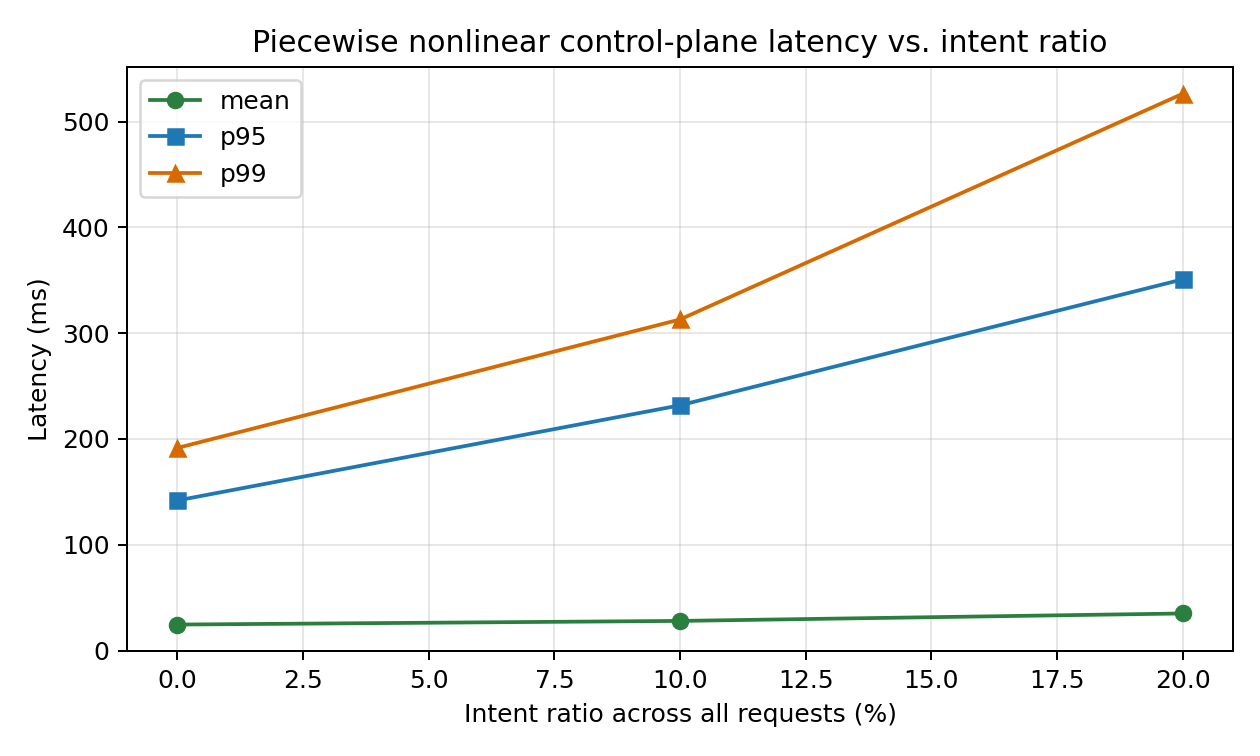
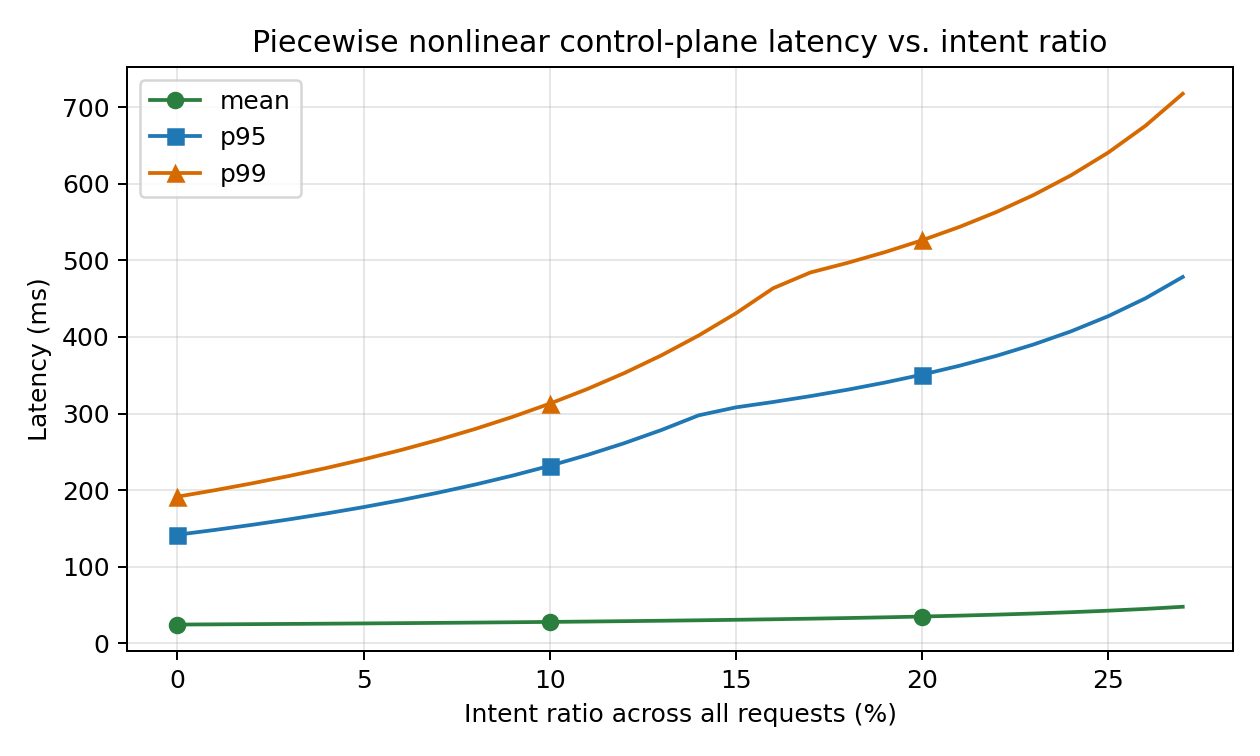
Smooth intent sweep chart

diff --git a/webapp/dist/app.js b/webapp/dist/app.js
@@ -1,4 +1,4 @@
-import { BASELINE, EVENTS, INPUT_IDS, SWEEP, USER_COUNT_SWEEP, USER_COUNT_SWEEP_INTENT_RATIO } from "./config.js";
+import { BASELINE, CHART_SWEEP, EVENTS, INPUT_IDS, TABLE_SWEEP, USER_COUNT_SWEEP, USER_COUNT_SWEEP_INTENT_RATIO } from "./config.js";
 import { I18N } from "./i18n.js";
 import { clamp, classifyStatus, evaluate as evaluateModel, fmt, pct } from "./model.js";
 let currentLang = "en";
@@ -107,6 +107,7 @@ function drawChart(rows) {
     const plotH = height - pad.top - pad.bottom;
     const x = (index) => pad.left + (index / (rows.length - 1)) * plotW;
     const y = (value, max) => pad.top + plotH - (clamp(value, 0, max) / max) * plotH;
+    const isMajorIntentTick = (row) => Math.round(row.intentRatio * 100) % 10 === 0;
     const finiteUtils = rows.flatMap((row) => [row.cpuUtil, row.networkUtil, row.npuUtil]).filter(Number.isFinite);
     const maxUtil = Math.max(1.1, ...finiteUtils);
     ctx.strokeStyle = "#d7ddd3";
@@ -140,6 +141,8 @@ function drawChart(rows) {
         });
         ctx.stroke();
         rows.forEach((row, index) => {
+            if (!isMajorIntentTick(row))
+                return;
             ctx.fillStyle = item.color;
             ctx.fillRect(x(index) - 4, y(row[item.key], maxUtil) - 4, 8, 8);
         });
@@ -155,6 +158,8 @@ function drawChart(rows) {
     ctx.font = "20px Aptos, Segoe UI, sans-serif";
     ctx.textAlign = "center";
     rows.forEach((row, index) => {
+        if (!isMajorIntentTick(row))
+            return;
         ctx.fillText(`${Math.round(row.intentRatio * 100)}%`, x(index), height - 14);
     });
     let legendX = pad.left;
@@ -274,10 +279,11 @@ function applyTranslations() {
 }
 function recompute() {
     const current = evaluateModel(num);
-    const rows = SWEEP.map((ratio) => evaluateModel(num, ratio));
+    const tableRows = TABLE_SWEEP.map((ratio) => evaluateModel(num, ratio));
+    const chartRows = CHART_SWEEP.map((ratio) => evaluateModel(num, ratio));
     updateSummary(current);
-    updateTable(rows);
-    drawChart(rows);
+    updateTable(tableRows);
+    drawChart(chartRows);
     drawUserCountChart();
 }
 function reset() {

diff --git a/webapp/src/app.ts b/webapp/src/app.ts
@@ -1,4 +1,4 @@
-import { BASELINE, EVENTS, INPUT_IDS, SWEEP, USER_COUNT_SWEEP, USER_COUNT_SWEEP_INTENT_RATIO } from "./config.js";
+import { BASELINE, CHART_SWEEP, EVENTS, INPUT_IDS, TABLE_SWEEP, USER_COUNT_SWEEP, USER_COUNT_SWEEP_INTENT_RATIO } from "./config.js";
 import { I18N } from "./i18n.js";
 import { clamp, classifyStatus, evaluate as evaluateModel, fmt, pct } from "./model.js";
 import type { Lang, Result, SystemStatus } from "./types.js";
@@ -127,6 +127,7 @@ function drawChart(rows: Result[]): void {
   const plotH = height - pad.top - pad.bottom;
   const x = (index: number) => pad.left + (index / (rows.length - 1)) * plotW;
   const y = (value: number, max: number) => pad.top + plotH - (clamp(value, 0, max) / max) * plotH;
+  const isMajorIntentTick = (row: Result) => Math.round(row.intentRatio * 100) % 10 === 0;
   const finiteUtils = rows.flatMap((row) => [row.cpuUtil, row.networkUtil, row.npuUtil]).filter(Number.isFinite);
   const maxUtil = Math.max(1.1, ...finiteUtils);
 
@@ -162,6 +163,7 @@ function drawChart(rows: Result[]): void {
     ctx.stroke();
 
     rows.forEach((row, index) => {
+      if (!isMajorIntentTick(row)) return;
       ctx.fillStyle = item.color;
       ctx.fillRect(x(index) - 4, y(row[item.key], maxUtil) - 4, 8, 8);
     });
@@ -179,6 +181,7 @@ function drawChart(rows: Result[]): void {
   ctx.font = "20px Aptos, Segoe UI, sans-serif";
   ctx.textAlign = "center";
   rows.forEach((row, index) => {
+    if (!isMajorIntentTick(row)) return;
     ctx.fillText(`${Math.round(row.intentRatio * 100)}%`, x(index), height - 14);
   });
 
@@ -309,10 +312,11 @@ function applyTranslations(): void {
 
 function recompute(): void {
   const current = evaluateModel(num);
-  const rows = SWEEP.map((ratio) => evaluateModel(num, ratio));
+  const tableRows = TABLE_SWEEP.map((ratio) => evaluateModel(num, ratio));
+  const chartRows = CHART_SWEEP.map((ratio) => evaluateModel(num, ratio));
   updateSummary(current);
-  updateTable(rows);
-  drawChart(rows);
+  updateTable(tableRows);
+  drawChart(chartRows);
   drawUserCountChart();
 }
 

diff --git a/webapp/src/i18n.ts b/webapp/src/i18n.ts
@@ -55,7 +55,7 @@ export const I18N: Record<Lang, Record<string, string>> = {
     p95LatencyMetric: "p95 latency (ms)",
     p99LatencyMetric: "p99 latency (ms)",
     intentSweep: "Intent Sweep",
-    intentSweepDescription: "X-axis: intent-bearing share across all request types, sampled every 10 percentage points. Results use fixed nonlinear load bands. Y-axis: CPU, network, and NPU utilization.",
+    intentSweepDescription: "X-axis: intent-bearing share across all request types, sampled every 1 percentage point. Results use fixed nonlinear load bands. Y-axis: CPU, network, and NPU utilization.",
     xAxisLabel: "Intent ratio (%)",
     yAxisLabel: "CPU / Network / NPU util (%)",
     intentSweepAria: "Line chart showing CPU utilization, network utilization, and NPU utilization by intent ratio.",
@@ -175,7 +175,7 @@ export const I18N: Record<Lang, Record<string, string>> = {
     p95LatencyMetric: "p95 时延（ms）",
     p99LatencyMetric: "p99 时延（ms）",
     intentSweep: "意图比例扫描",
-    intentSweepDescription: "横轴表示全部请求类型中携带意图的比例，每 10 个百分点采样一次。结果采用固定的非线性负载分档。纵轴表示 CPU、网络和 NPU 利用率。",
+    intentSweepDescription: "横轴表示全部请求类型中携带意图的比例，每 1 个百分点采样一次。结果采用固定的非线性负载分档。纵轴表示 CPU、网络和 NPU 利用率。",
     xAxisLabel: "意图比例（%）",
     yAxisLabel: "CPU / 网络 / NPU 利用率（%）",
     intentSweepAria: "折线图，展示不同意图比例下的 CPU 利用率、网络利用率和 NPU 利用率。",

diff --git a/webapp/dist/i18n.js b/webapp/dist/i18n.js
@@ -53,7 +53,7 @@ export const I18N = {
         p95LatencyMetric: "p95 latency (ms)",
         p99LatencyMetric: "p99 latency (ms)",
         intentSweep: "Intent Sweep",
-        intentSweepDescription: "X-axis: intent-bearing share across all request types, sampled every 10 percentage points. Results use fixed nonlinear load bands. Y-axis: CPU, network, and NPU utilization.",
+        intentSweepDescription: "X-axis: intent-bearing share across all request types, sampled every 1 percentage point. Results use fixed nonlinear load bands. Y-axis: CPU, network, and NPU utilization.",
         xAxisLabel: "Intent ratio (%)",
         yAxisLabel: "CPU / Network / NPU util (%)",
         intentSweepAria: "Line chart showing CPU utilization, network utilization, and NPU utilization by intent ratio.",
@@ -173,7 +173,7 @@ export const I18N = {
         p95LatencyMetric: "p95 时延（ms）",
         p99LatencyMetric: "p99 时延（ms）",
         intentSweep: "意图比例扫描",
-        intentSweepDescription: "横轴表示全部请求类型中携带意图的比例，每 10 个百分点采样一次。结果采用固定的非线性负载分档。纵轴表示 CPU、网络和 NPU 利用率。",
+        intentSweepDescription: "横轴表示全部请求类型中携带意图的比例，每 1 个百分点采样一次。结果采用固定的非线性负载分档。纵轴表示 CPU、网络和 NPU 利用率。",
         xAxisLabel: "意图比例（%）",
         yAxisLabel: "CPU / 网络 / NPU 利用率（%）",
         intentSweepAria: "折线图，展示不同意图比例下的 CPU 利用率、网络利用率和 NPU 利用率。",

diff --git a/webapp/index.html b/webapp/index.html
@@ -246,7 +246,7 @@
               <span class="panel-code">05</span>
               <h2 data-i18n="intentSweep">Intent Sweep</h2>
             </div>
-            <p class="chart-description" data-i18n="intentSweepDescription">X-axis: intent-bearing share across all request types, sampled every 10 percentage points. Results use fixed nonlinear load bands. Y-axis: CPU, network, and NPU utilization.</p>
+            <p class="chart-description" data-i18n="intentSweepDescription">X-axis: intent-bearing share across all request types, sampled every 1 percentage point. Results use fixed nonlinear load bands. Y-axis: CPU, network, and NPU utilization.</p>
             <div class="chart-frame">
               <div class="axis-label y-axis" data-i18n="yAxisLabel">CPU / Network / NPU util (%)</div>
               <canvas id="sweepChart" width="920" height="360" aria-label="Intent sweep chart"></canvas>

diff --git a/webapp/dist/config.js b/webapp/dist/config.js
@@ -29,7 +29,8 @@ export const EVENTS = [
     { key: "handover", inputId: "eventHandover", labelKey: "handover", tipKey: "handoverTip", perUserPerHour: 23.1, baseLatencyMs: 25, baseCpuMs: 1.8, baseBandwidthKb: 12 },
     { key: "paging", inputId: "eventPaging", labelKey: "paging", tipKey: "pagingTip", perUserPerHour: 14.0, baseLatencyMs: 12, baseCpuMs: 0.6, baseBandwidthKb: 4 }
 ];
-export const SWEEP = Array.from({ length: 11 }, (_, index) => index * 10);
+export const TABLE_SWEEP = Array.from({ length: 11 }, (_, index) => index * 10);
+export const CHART_SWEEP = Array.from({ length: 101 }, (_, index) => index);
 export const USER_COUNT_SWEEP = [
     500000,
     1000000,

diff --git a/webapp/src/config.ts b/webapp/src/config.ts
@@ -33,7 +33,8 @@ export const EVENTS: EventDefinition[] = [
   { key: "paging", inputId: "eventPaging", labelKey: "paging", tipKey: "pagingTip", perUserPerHour: 14.0, baseLatencyMs: 12, baseCpuMs: 0.6, baseBandwidthKb: 4 }
 ];
 
-export const SWEEP = Array.from({ length: 11 }, (_, index) => index * 10);
+export const TABLE_SWEEP = Array.from({ length: 11 }, (_, index) => index * 10);
+export const CHART_SWEEP = Array.from({ length: 101 }, (_, index) => index);
 export const USER_COUNT_SWEEP = [
   500000,
   1000000,

diff --git a/scripts/agentic_model_outputs.py b/scripts/agentic_model_outputs.py
@@ -46,6 +46,7 @@ def maybe_write_plots(rows: List[Dict[str, float | str]], out_dir: Path) -> None
         x,
         [float(r["cpu_utilization"]) * 100.0 for r in rows],
         marker="o",
+        markevery=10,
         color=CPU_COLOR,
         label="CPU util",
     )
@@ -53,6 +54,7 @@ def maybe_write_plots(rows: List[Dict[str, float | str]], out_dir: Path) -> None
         x,
         [float(r["network_utilization"]) * 100.0 for r in rows],
         marker="s",
+        markevery=10,
         color=NETWORK_COLOR,
         label="Network util",
     )
@@ -60,6 +62,7 @@ def maybe_write_plots(rows: List[Dict[str, float | str]], out_dir: Path) -> None
         x,
         [float(r["npu_utilization"]) * 100.0 for r in rows],
         marker="^",
+        markevery=10,
         color=NPU_COLOR,
         label="NPU util",
     )
@@ -77,9 +80,9 @@ def maybe_write_plots(rows: List[Dict[str, float | str]], out_dir: Path) -> None
     plt.close()
 
     plt.figure(figsize=(7, 4.2))
-    plt.plot(x, finite_series("mean_latency_ms"), marker="o", color="#2a7f3e", label="mean")
-    plt.plot(x, finite_series("p95_latency_ms"), marker="s", color="#1f77b4", label="p95")
-    plt.plot(x, finite_series("p99_latency_ms"), marker="^", color="#d66a00", label="p99")
+    plt.plot(x, finite_series("mean_latency_ms"), marker="o", markevery=10, color="#2a7f3e", label="mean")
+    plt.plot(x, finite_series("p95_latency_ms"), marker="s", markevery=10, color="#1f77b4", label="p95")
+    plt.plot(x, finite_series("p99_latency_ms"), marker="^", markevery=10, color="#d66a00", label="p99")
     plt.xlabel("Intent ratio across all requests (%)")
     plt.ylabel("Latency (ms)")
     plt.title("Piecewise nonlinear control-plane latency vs. intent ratio")

diff --git a/scripts/agentic_resource_model.py b/scripts/agentic_resource_model.py
@@ -13,6 +13,7 @@ from pathlib import Path
 
 from agentic_model_config import (
     INTENT_SETTINGS,
+    INTENT_PLOT_SETTINGS,
     QWEN3_INVOCATION_SETTINGS,
     QWEN3_TOKEN_CAPACITY_SETTINGS,
     SENSITIVITY_USERS,
@@ -24,6 +25,7 @@ from agentic_model_outputs import maybe_write_plots, maybe_write_user_count_plot
 def main() -> None:
     config = ModelConfig()
     rows = [evaluate(config, ratio) for ratio in INTENT_SETTINGS]
+    plot_rows = [evaluate(config, ratio) for ratio in INTENT_PLOT_SETTINGS]
     out_dir = Path("outputs")
     write_csv(rows, out_dir / "agentic_resource_results.csv")
     sensitivity_rows = [
@@ -41,7 +43,7 @@ def main() -> None:
         for capacity in QWEN3_TOKEN_CAPACITY_SETTINGS
     ]
     write_csv(qwen3_rows, out_dir / "agentic_qwen3_sizing_sensitivity.csv")
-    maybe_write_plots(rows, out_dir)
+    maybe_write_plots(plot_rows, out_dir)
     maybe_write_user_count_plot(config, out_dir)
 
     print("Wrote outputs/agentic_resource_results.csv")

diff --git a/scripts/agentic_model_config.py b/scripts/agentic_model_config.py
@@ -60,7 +60,9 @@ EVENTS: List[EventType] = [
     EventType("paging", 14.0, 12.0, 0.6, 4.0),
 ]
 
-INTENT_SETTINGS = [step / 100.0 for step in range(0, 101, 10)]
+INTENT_TABLE_SETTINGS = [step / 100.0 for step in range(0, 101, 10)]
+INTENT_PLOT_SETTINGS = [step / 100.0 for step in range(0, 101)]
+INTENT_SETTINGS = INTENT_TABLE_SETTINGS
 SENSITIVITY_USERS = [
     500_000.0,
     1_000_000.0,

diff --git a/agentic_core_resource_model.md b/agentic_core_resource_model.md
@@ -156,7 +156,7 @@ $$
 
 ## Analytical Results
 
-The table fixes the user population, event frequencies, and Qwen3 cluster size, then varies the percentage of all requests that carry intent in constant $10\%$ steps. The visible results use the piecewise nonlinear load-band model.
+The table fixes the user population, event frequencies, and Qwen3 cluster size, then varies the percentage of all requests that carry intent in constant $10\%$ steps. The visible results use the piecewise nonlinear load-band model. The intent-sweep figure uses $1\%$ sampling for smoother visualization.
 
 | Intent ratio | Total intent share | Intent rps | Qwen3 rps | Effective Qwen3 tokens/s | CPU cores | CPU util | Memory traffic | NPU util | Network bandwidth | Mean latency | p95 latency | Status |
 | ---: | ---: | ---: | ---: | ---: | ---: | ---: | ---: | ---: | ---: | ---: | ---: | --- |

diff --git a/agentic_core_resource_model_zh.md b/agentic_core_resource_model_zh.md
@@ -156,7 +156,7 @@ $$
 
 ## 分析结果
 
-下表固定用户规模、事件频率和 Qwen3 集群规模，仅以固定 $10\%$ 步长改变全部请求中携带意图的比例。可见结果使用分段式非线性负载模型。
+下表固定用户规模、事件频率和 Qwen3 集群规模，仅以固定 $10\%$ 步长改变全部请求中携带意图的比例。可见结果使用分段式非线性负载模型。意图比例扫描图使用 $1\%$ 采样，以获得更平滑的可视化效果。
 
 | 意图比例 | 总意图占比 | 意图 rps | Qwen3 rps | 有效 Qwen3 tokens/s | CPU 核 | CPU 利用率 | 内存流量 | NPU 利用率 | 网络带宽 | 平均时延 | p95 时延 | 状态 |
 | ---: | ---: | ---: | ---: | ---: | ---: | ---: | ---: | ---: | ---: | ---: | ---: | --- |
